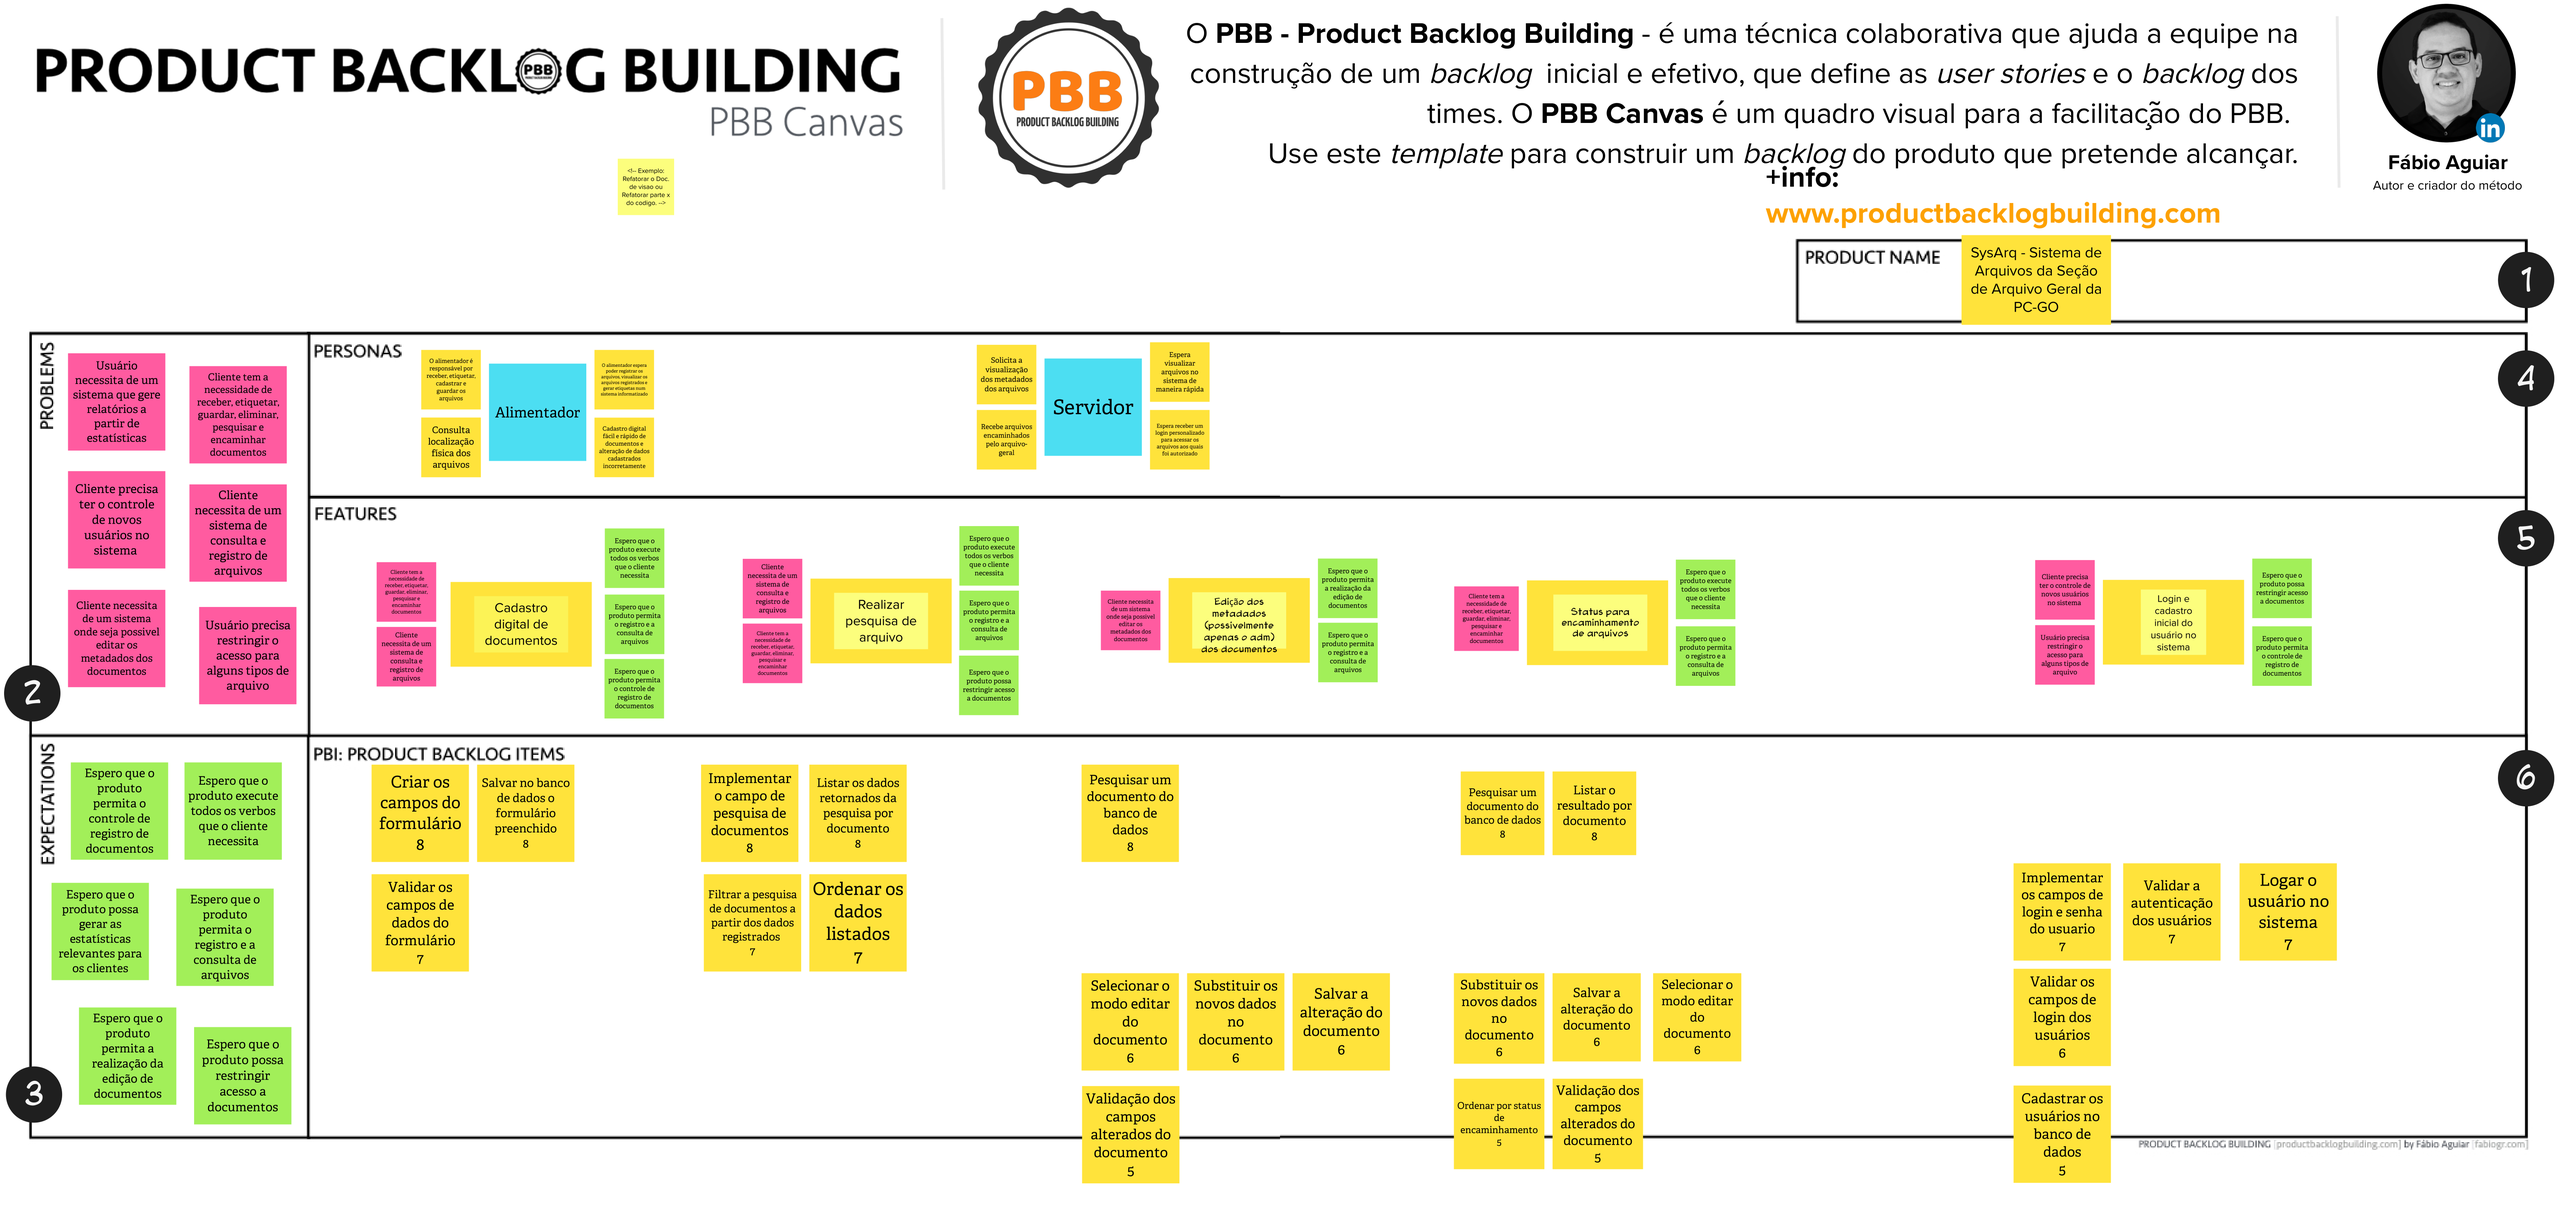
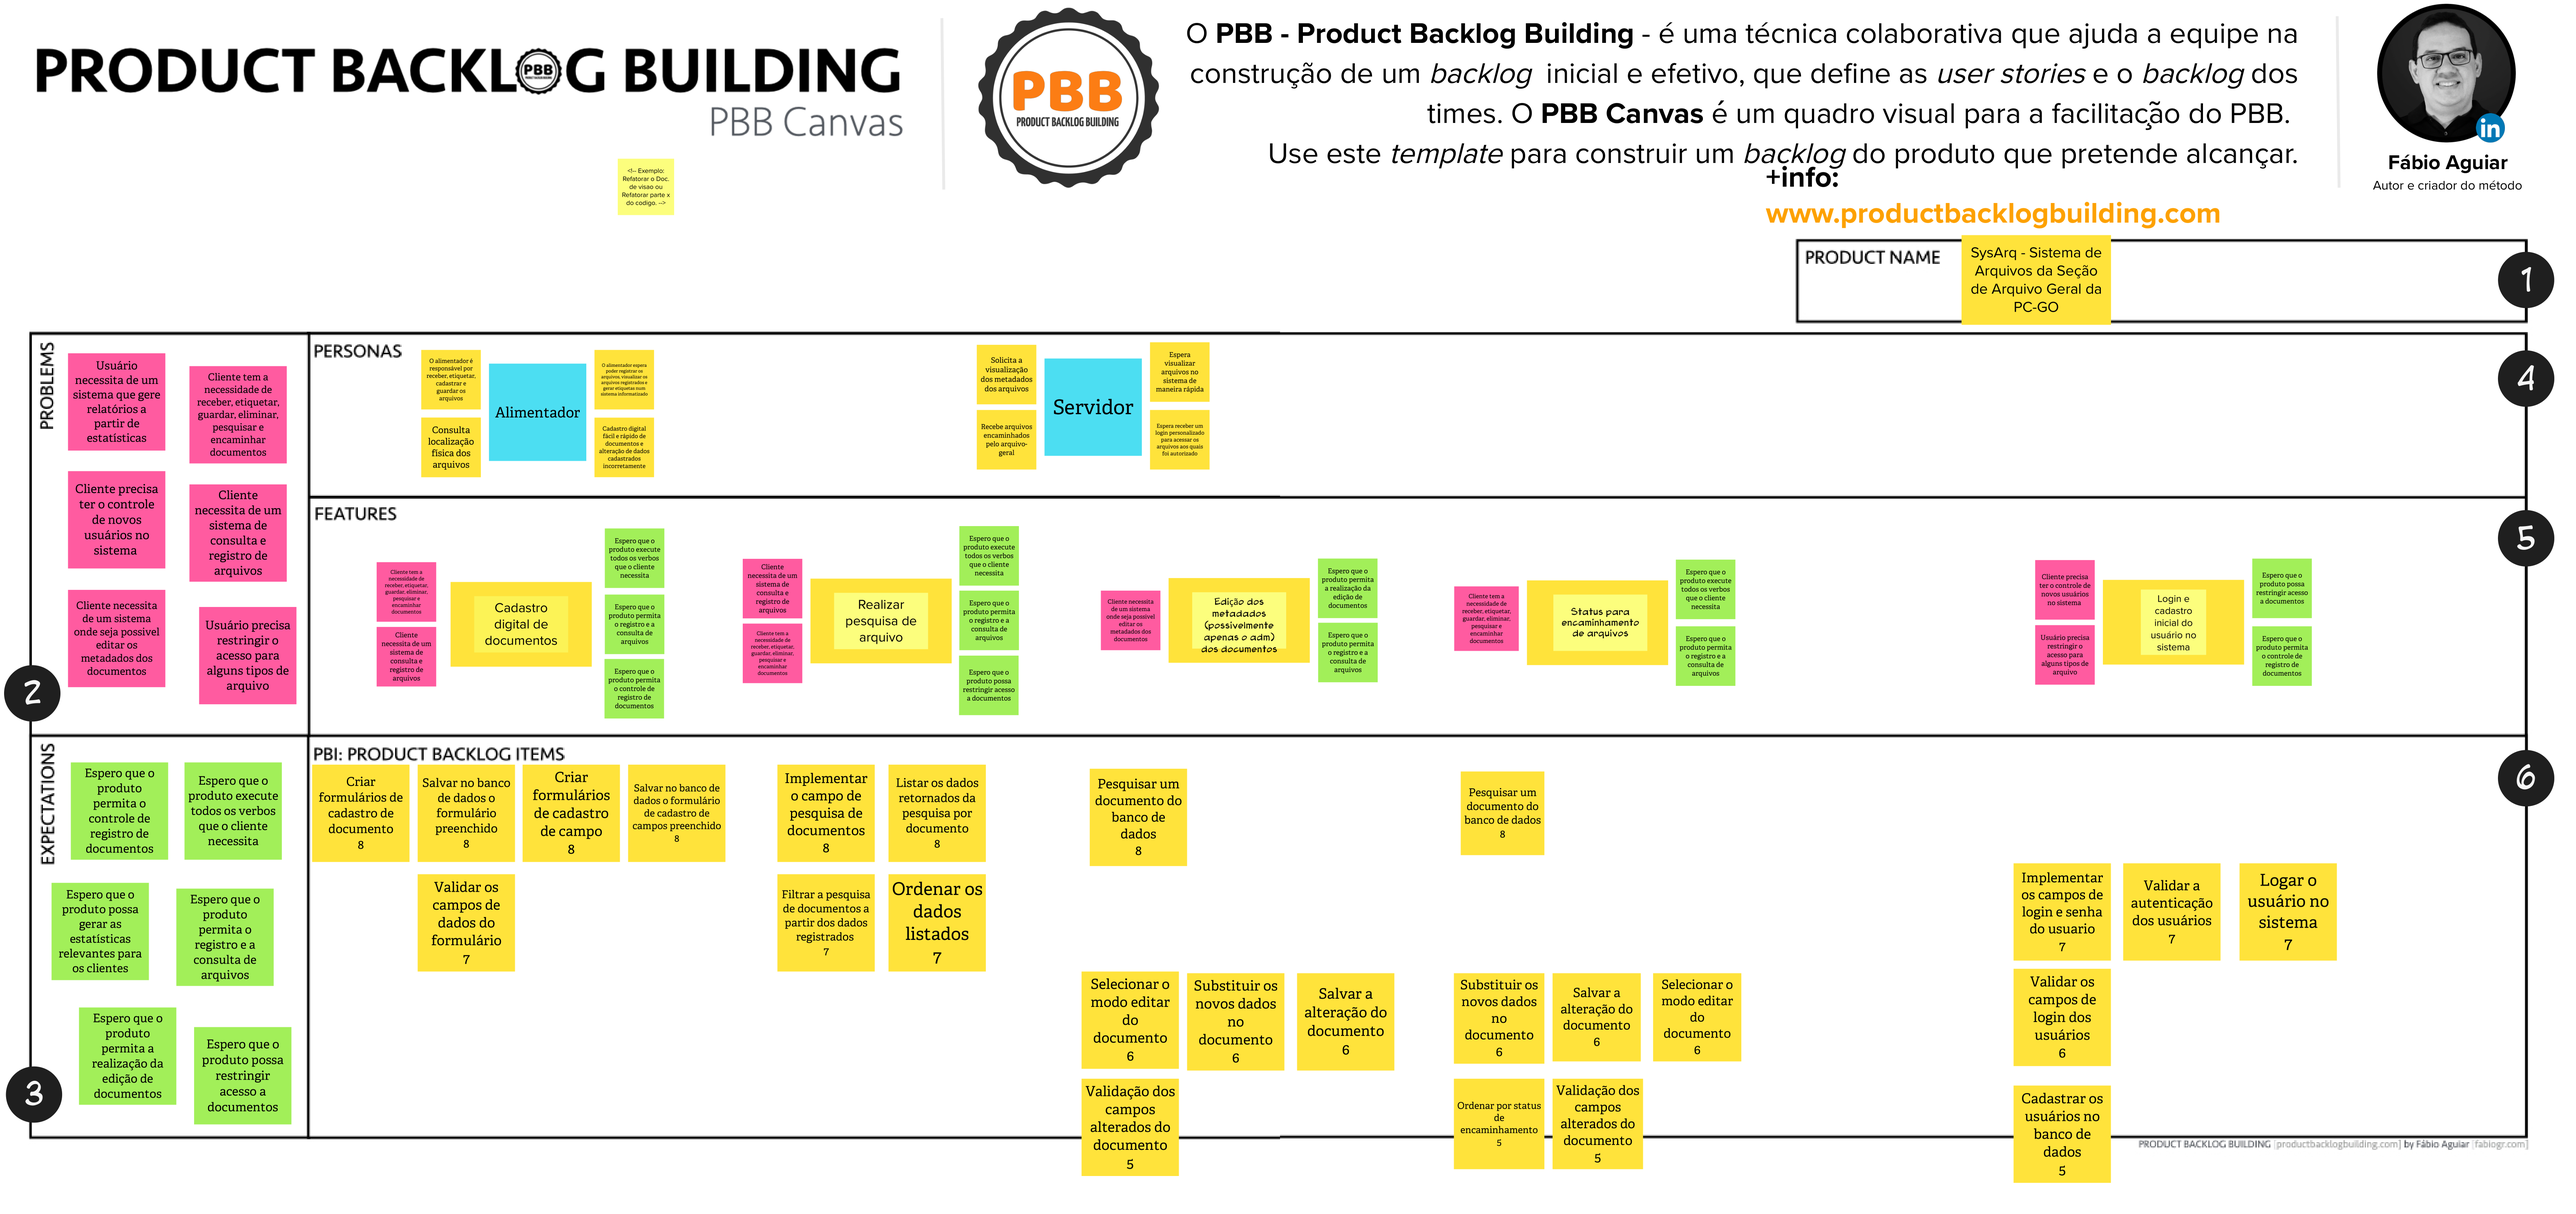
Adiciona as referências e atualiza imagem do PBB (#77)

diff --git a/docs/artefatos_pre_sprints/leanInception.md b/docs/artefatos_pre_sprints/leanInception.md
@@ -8,7 +8,8 @@ Documento que resume o que foi tratado no workshop da Lean Inception da equipe
 |:----:|:------:|:---------:|:--------:|
 | 21/08/21 | 0.9 | Adiciona o workshop Lean Inception da equipe | [Ivan Diniz Dobbin](https://github.com/darmsDD) |
 | 23/08/21 | 1.0 | Acrescenta o histórico de revisão | [Ivan Diniz Dobbin](https://github.com/darmsDD) |
-| 27/08/21 | 1.1 | Adiciona versão refatorada do canvas mvp | [Ivan Diniz Dobbin](https://github.com/darmsDD) |
+| 27/08/21 | 1.1 | Adiciona versão alterada do canvas mvp | [Ivan Diniz Dobbin](https://github.com/darmsDD) |
+| 06/09/21 | 1.2 | Adiciona referências |[Ivan Diniz Dobbin](https://github.com/darmsDD)|
 
 ## Parte 1
 
@@ -135,7 +136,7 @@ Documento que resume o que foi tratado no workshop da Lean Inception da equipe
 |Carlos Eduardo Miranda Roriz | :x: | Nenhuma |
 
 
-## Refatoração
+## Mudanças
 No dia 27/08/2021 ajustamos as métricas e resultados do canvas com o cliente,
 pois as métricas e resultados anteriores estavam baseadas em uma validação para o Arquivo todo.
 Foi decidido que que 1 pessoa iria validar o produto. 
@@ -144,3 +145,7 @@ Foi decidido que que 1 pessoa iria validar o produto.
 ## Resultado Final
 
 [ ![](./imagens/Lean_Inception.png) ](./imagens/Lean_Inception.png)
+
+
+## Referências
+Caroli, Paulo. Lean Inception: como alinhar Pessoas e construir o Produto Certo. 1 ª edição atualizada. São Paulo: Editora Caroli , 2018.

diff --git a/docs/artefatos_pre_sprints/productBacklogBuilding.md b/docs/artefatos_pre_sprints/productBacklogBuilding.md
@@ -7,6 +7,7 @@ Documento que resume o que foi tratado nas reuniões de realização do Product 
 |:----:|:------:|:---------:|:--------:|
 | 22/08/21 | 0.9 | Adição do PBB | [Ivan Diniz Dobbin](https://github.com/darmsDD) |
 | 23/08/21 | 1.0 | Acrescenta o histórico de revisão | [Ivan Diniz Dobbin](https://github.com/darmsDD) |
+| 06/09/21 | 1.1 | Acrescenta as referências e atualização do PBB | [Ivan Diniz Dobbin](https://github.com/darmsDD) |
 
 ## Parte 1
 
@@ -64,6 +65,11 @@ Documento que resume o que foi tratado nas reuniões de realização do Product 
 |Gabriel Marcolino Rodrigues | :white_check_mark: | |
 |Carlos Eduardo Miranda Roriz | :x: | Nenhuma |
 
-
+## Mudanças
+Quando fomos realizar as histórias de usuário e após a reunião com o cliente, percebemos que não
+havia tarefas para uma criação de campos. Assim atualizamos o PBB.
 ## Resultado Final
 [ ![](./imagens/PBB_Canvas.png) ](./imagens/PBB_Canvas.png)
+
+## Referências
+Aguiar, Fábio; Caroli, Paulo. Product Backlog Building: Um guia prático para criação e refinamento de backlog pra produtos de sucesso. 1ª Edição. Rio de Janeiro: Editora Caroli, 2021.
